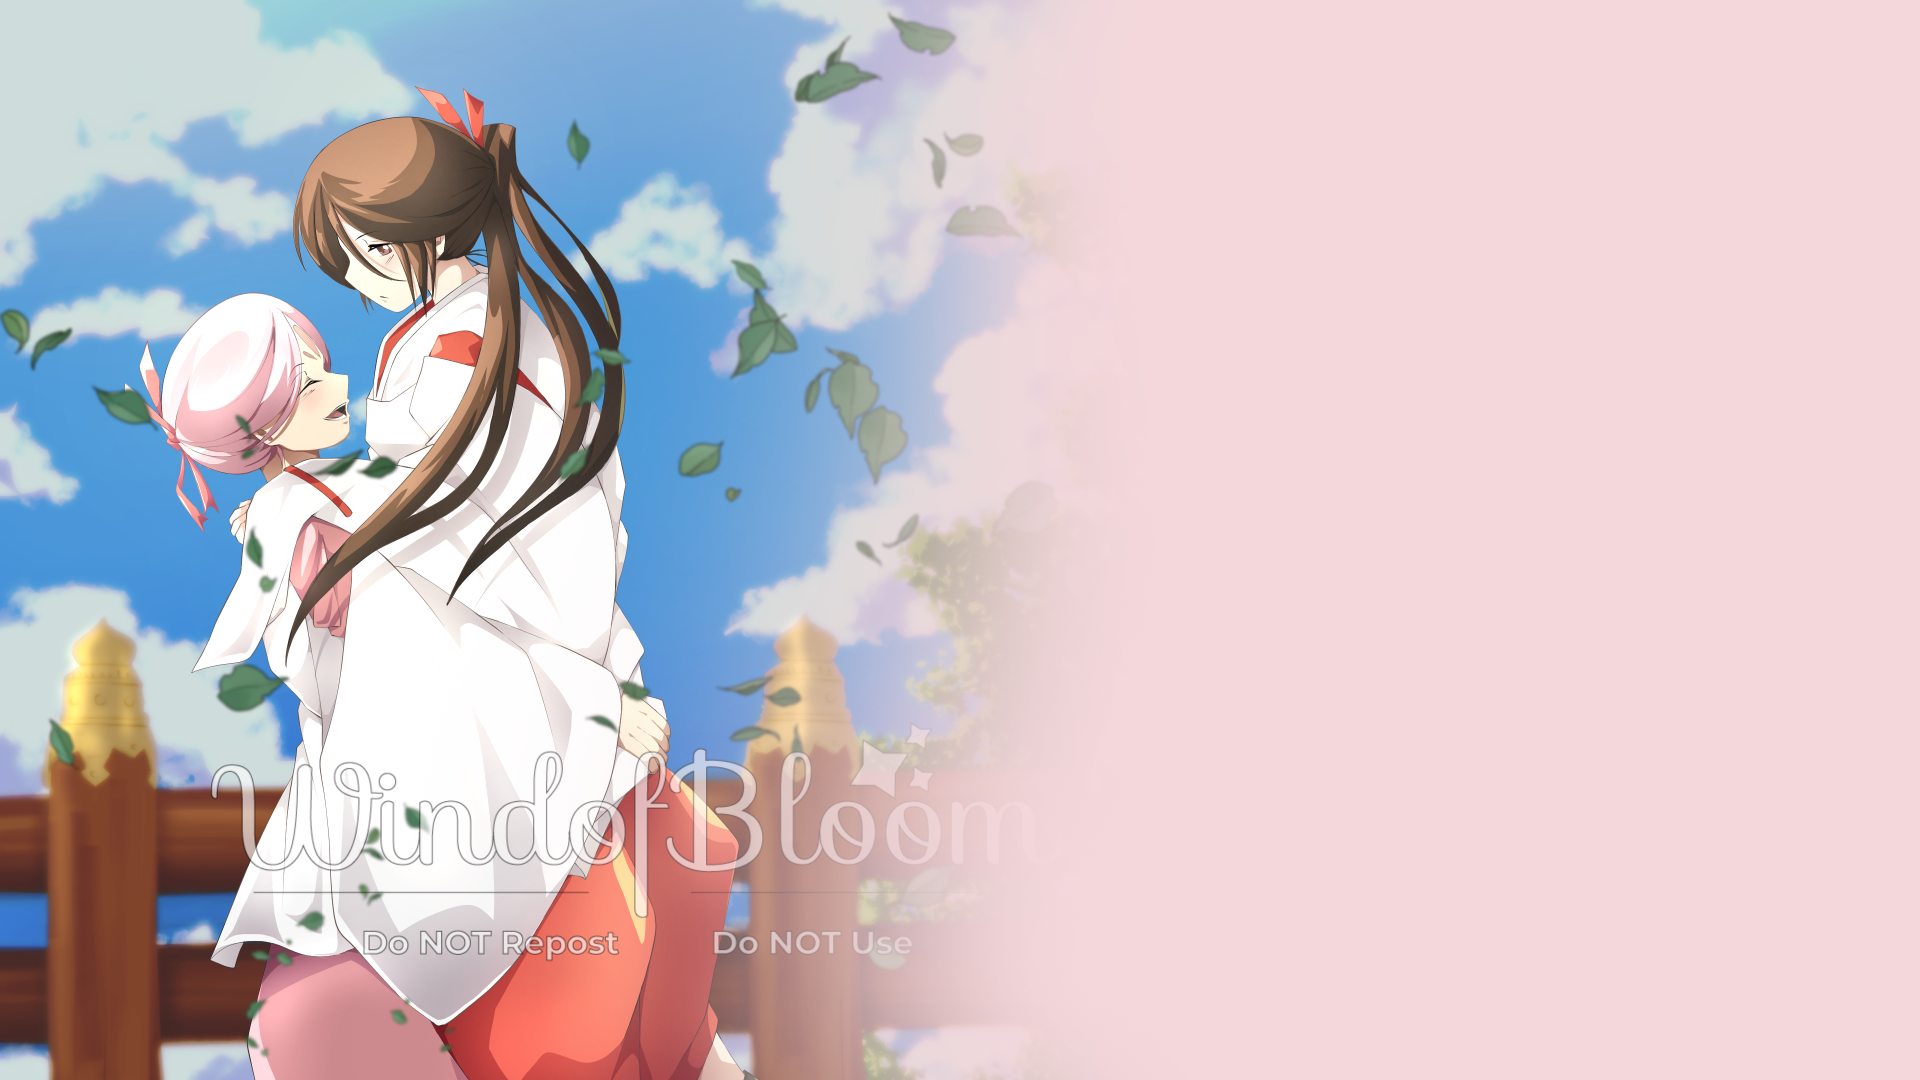
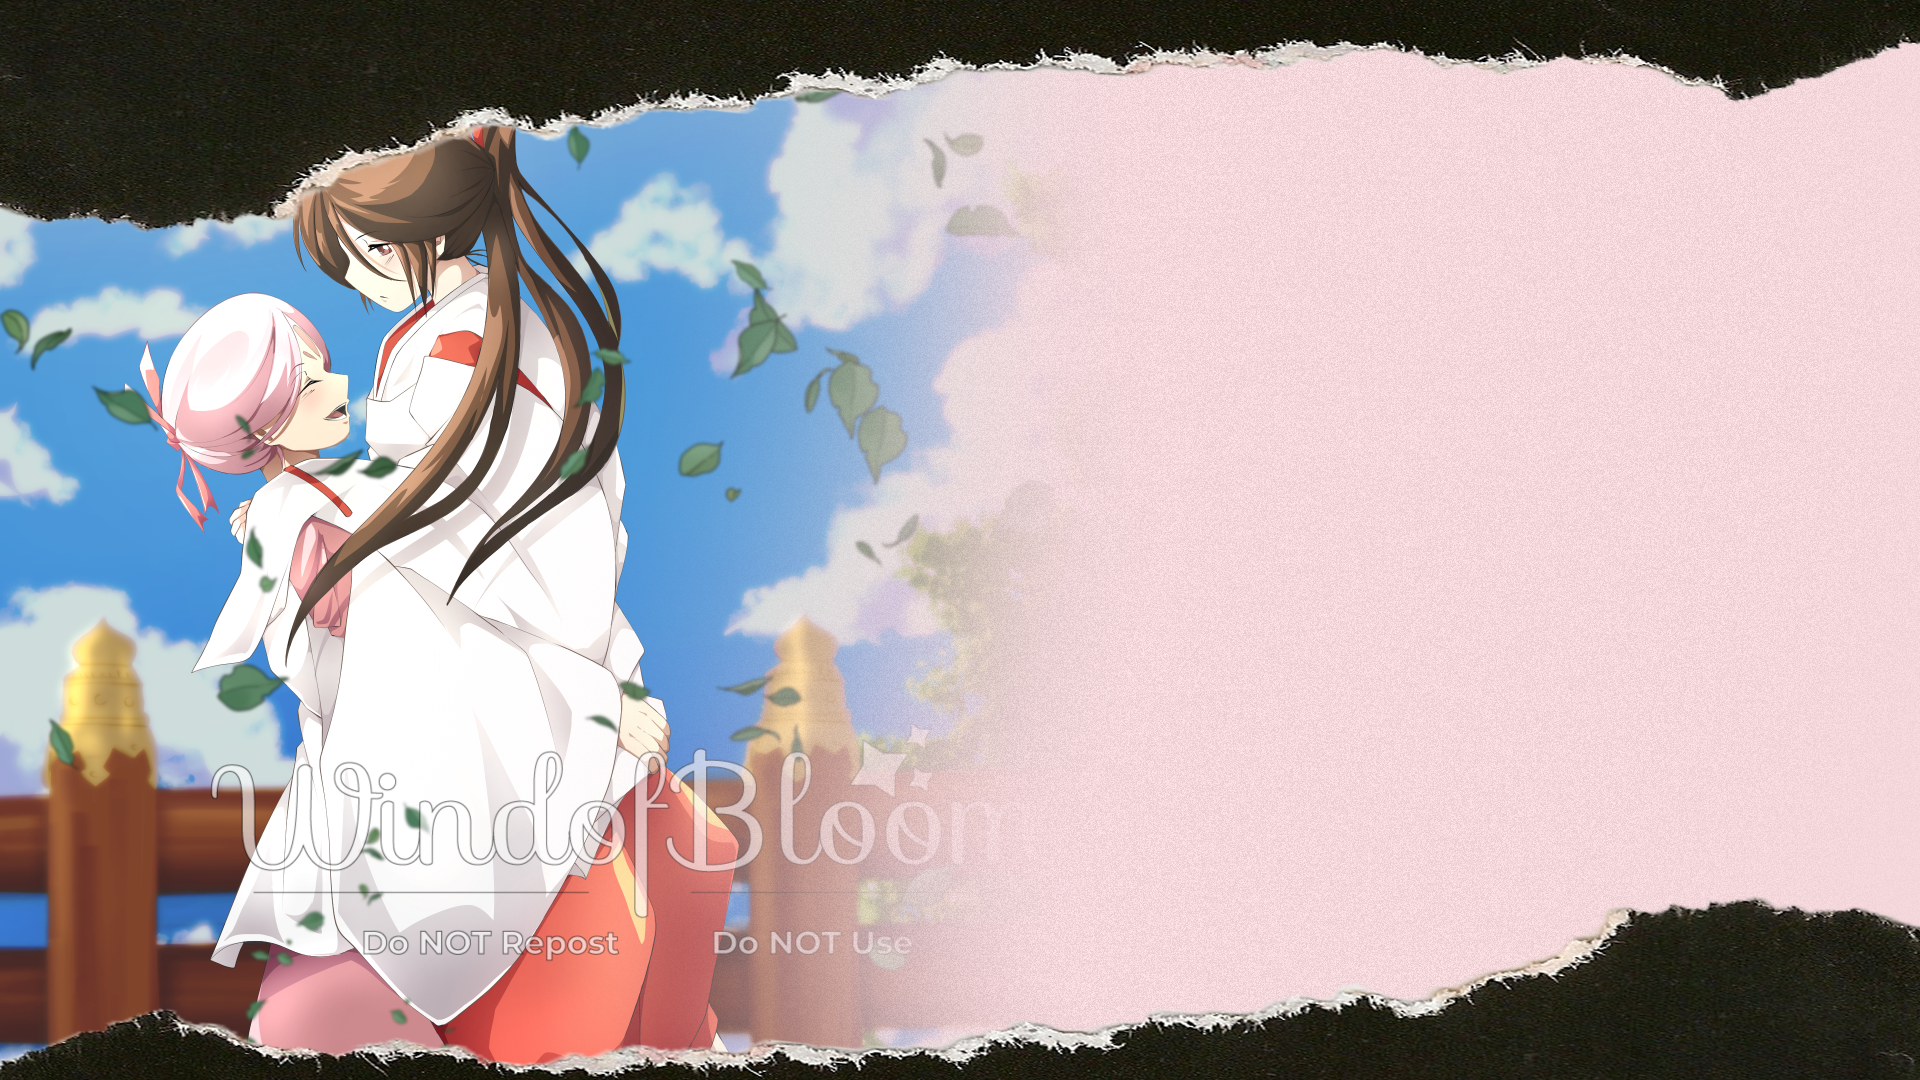
Changed background images and added proper styles to a better styling background

Changed region(s): [[0.0, 0.0, 1.0, 0.2139], [0.0, 0.825, 1.0, 1.0]]

diff --git a/src/styles/Tsukiko.css b/src/styles/Tsukiko.css
@@ -2,6 +2,9 @@
     background: var(--light-pink);
     min-height: 100vh;
     color: var(--dark-color-tsuki);
+    /*background-image: 
+    url("https://www.transparenttextures.com/patterns/broken-noise.png");
+    background-blend-mode: overlay;*/
 }
 
 .header__background {
@@ -133,18 +136,11 @@
 }
 
 .past {
-    padding: 5rem;
+    padding: 9rem;
     background-image: url(/src/assets/webbg2.png);
-    background-position: center center;
-    background-repeat: no-repeat;
+     background-repeat: no-repeat;
     background-size: cover;
-    mask-image: linear-gradient(black 60%, transparent);
-}
-
-.overlay {
-    border-image: linear-gradient(
-        to bottom, var(--light-pink) 0%, 
-        transparent 100%) fill 1;
+    background-position: center 20%;
 }
 
 .past__content {
@@ -157,7 +153,7 @@
     margin-right: 3rem;
 }
 
-.past__img img, .present__img img {
+.past__img img {
     width: 250px;
     height: 250px;
     object-fit: cover;
@@ -166,7 +162,16 @@
     padding: 1rem;
 }
 
-.past__text h3, .present__text h3 {
+.present__img img {
+    width: 250px;
+    height: 250px;
+    object-fit: cover;
+    border-radius: 50%;
+    border: 2px solid var(--light-pink);
+    padding: 1rem;
+}
+
+.past__text h3 {
     font-family: 'Metamorphous', serif;
     font-size: 2rem;
     color: var(--primary-color-tsuki);
@@ -174,9 +179,20 @@
     text-align: center;
 }
 
+.present__text h3 {
+    font-family: 'Metamorphous', serif;
+    font-size: 2rem;
+    color: var(--light-pink);
+    margin: 0;
+    text-align: center;
+}
+
 .present {
-    padding: 5rem;
-    background: var(--secondary-color-tsuki);
+    padding: 9rem;
+    background-image: url(/src/assets/webbg3.png);
+    background-repeat: no-repeat;
+    background-size: cover;
+    background-position: center 25%;
 }
 
 .present__content {
@@ -222,13 +238,24 @@
 
     .past {
         padding: 5rem 2rem;
-        background-position: left;
+        background-position: 36%;
     }
 
-    .past__content {
+    .present {
+        padding: 5rem 2rem;
+        background-position: 36%;
+    }
+
+    .past__content, .present__content {
         width: 100%;
         margin: 0 auto;
     }
+
+    .overlay {
+    border-image: linear-gradient(
+        to top, var(--light-pink) 0%, 
+        transparent 100%) fill 1;
+}
 }
 
 @media (min-width: 1024px) and (max-width: 1600px) {
